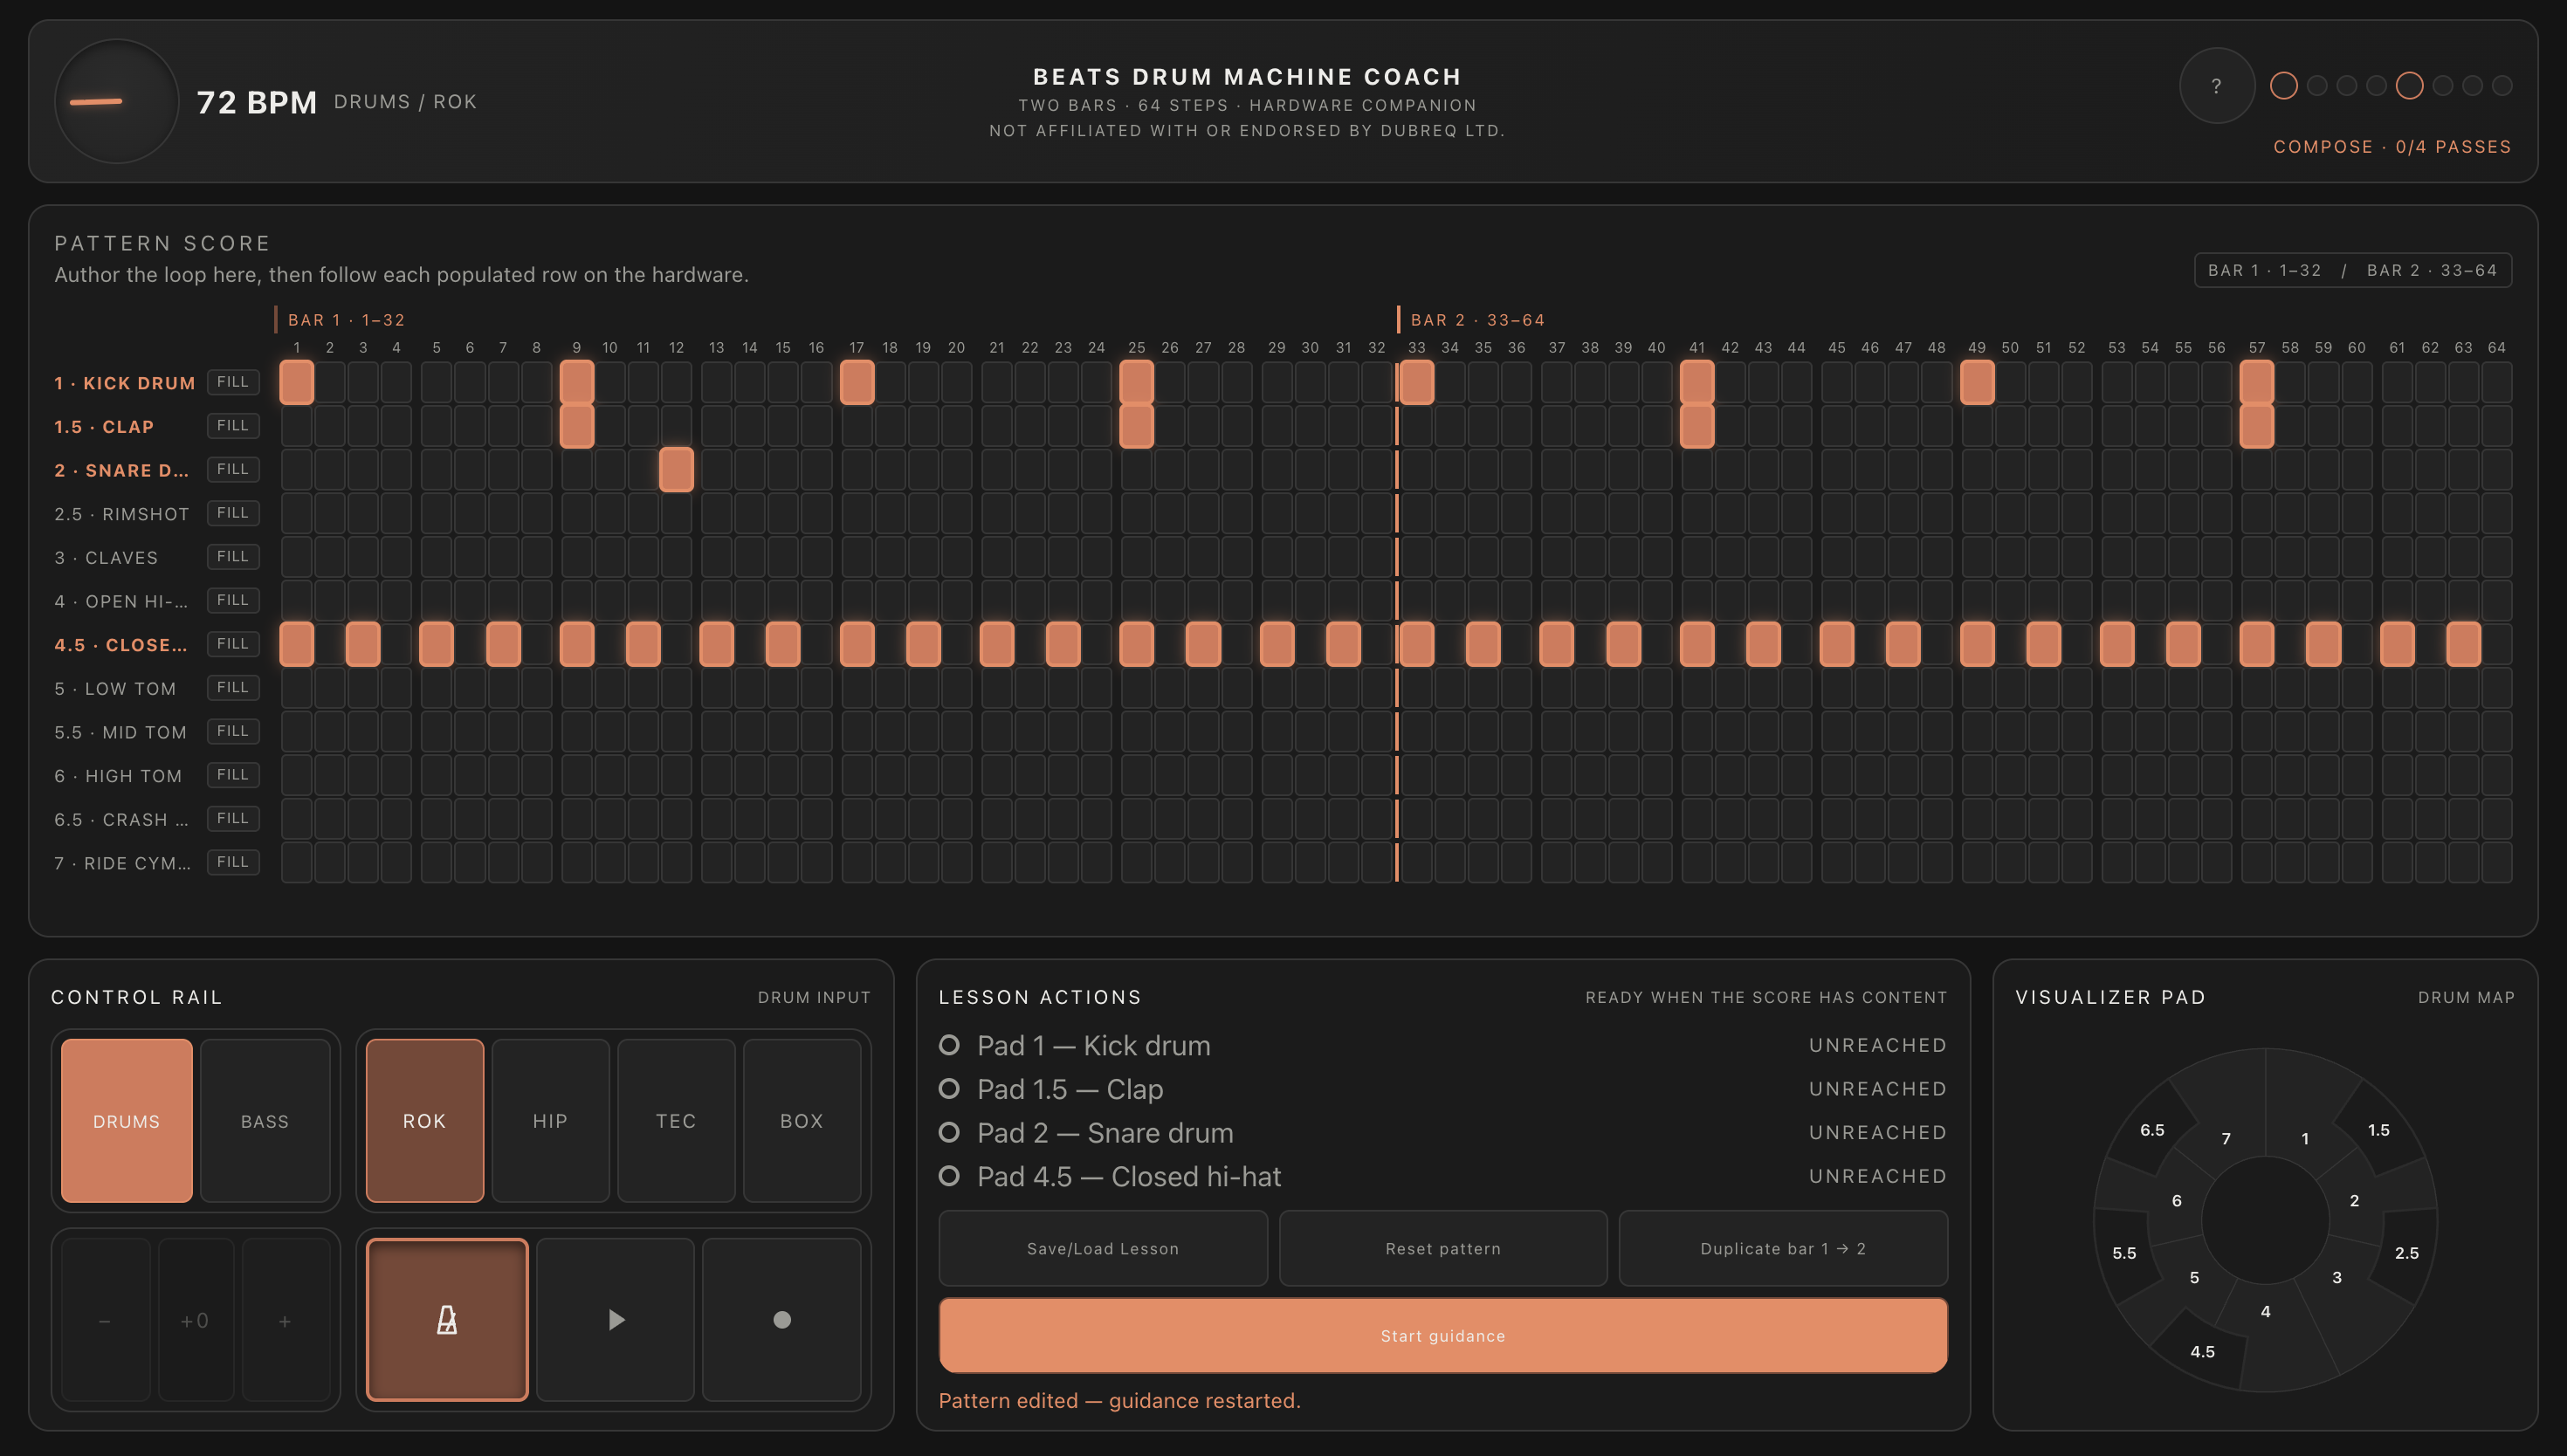
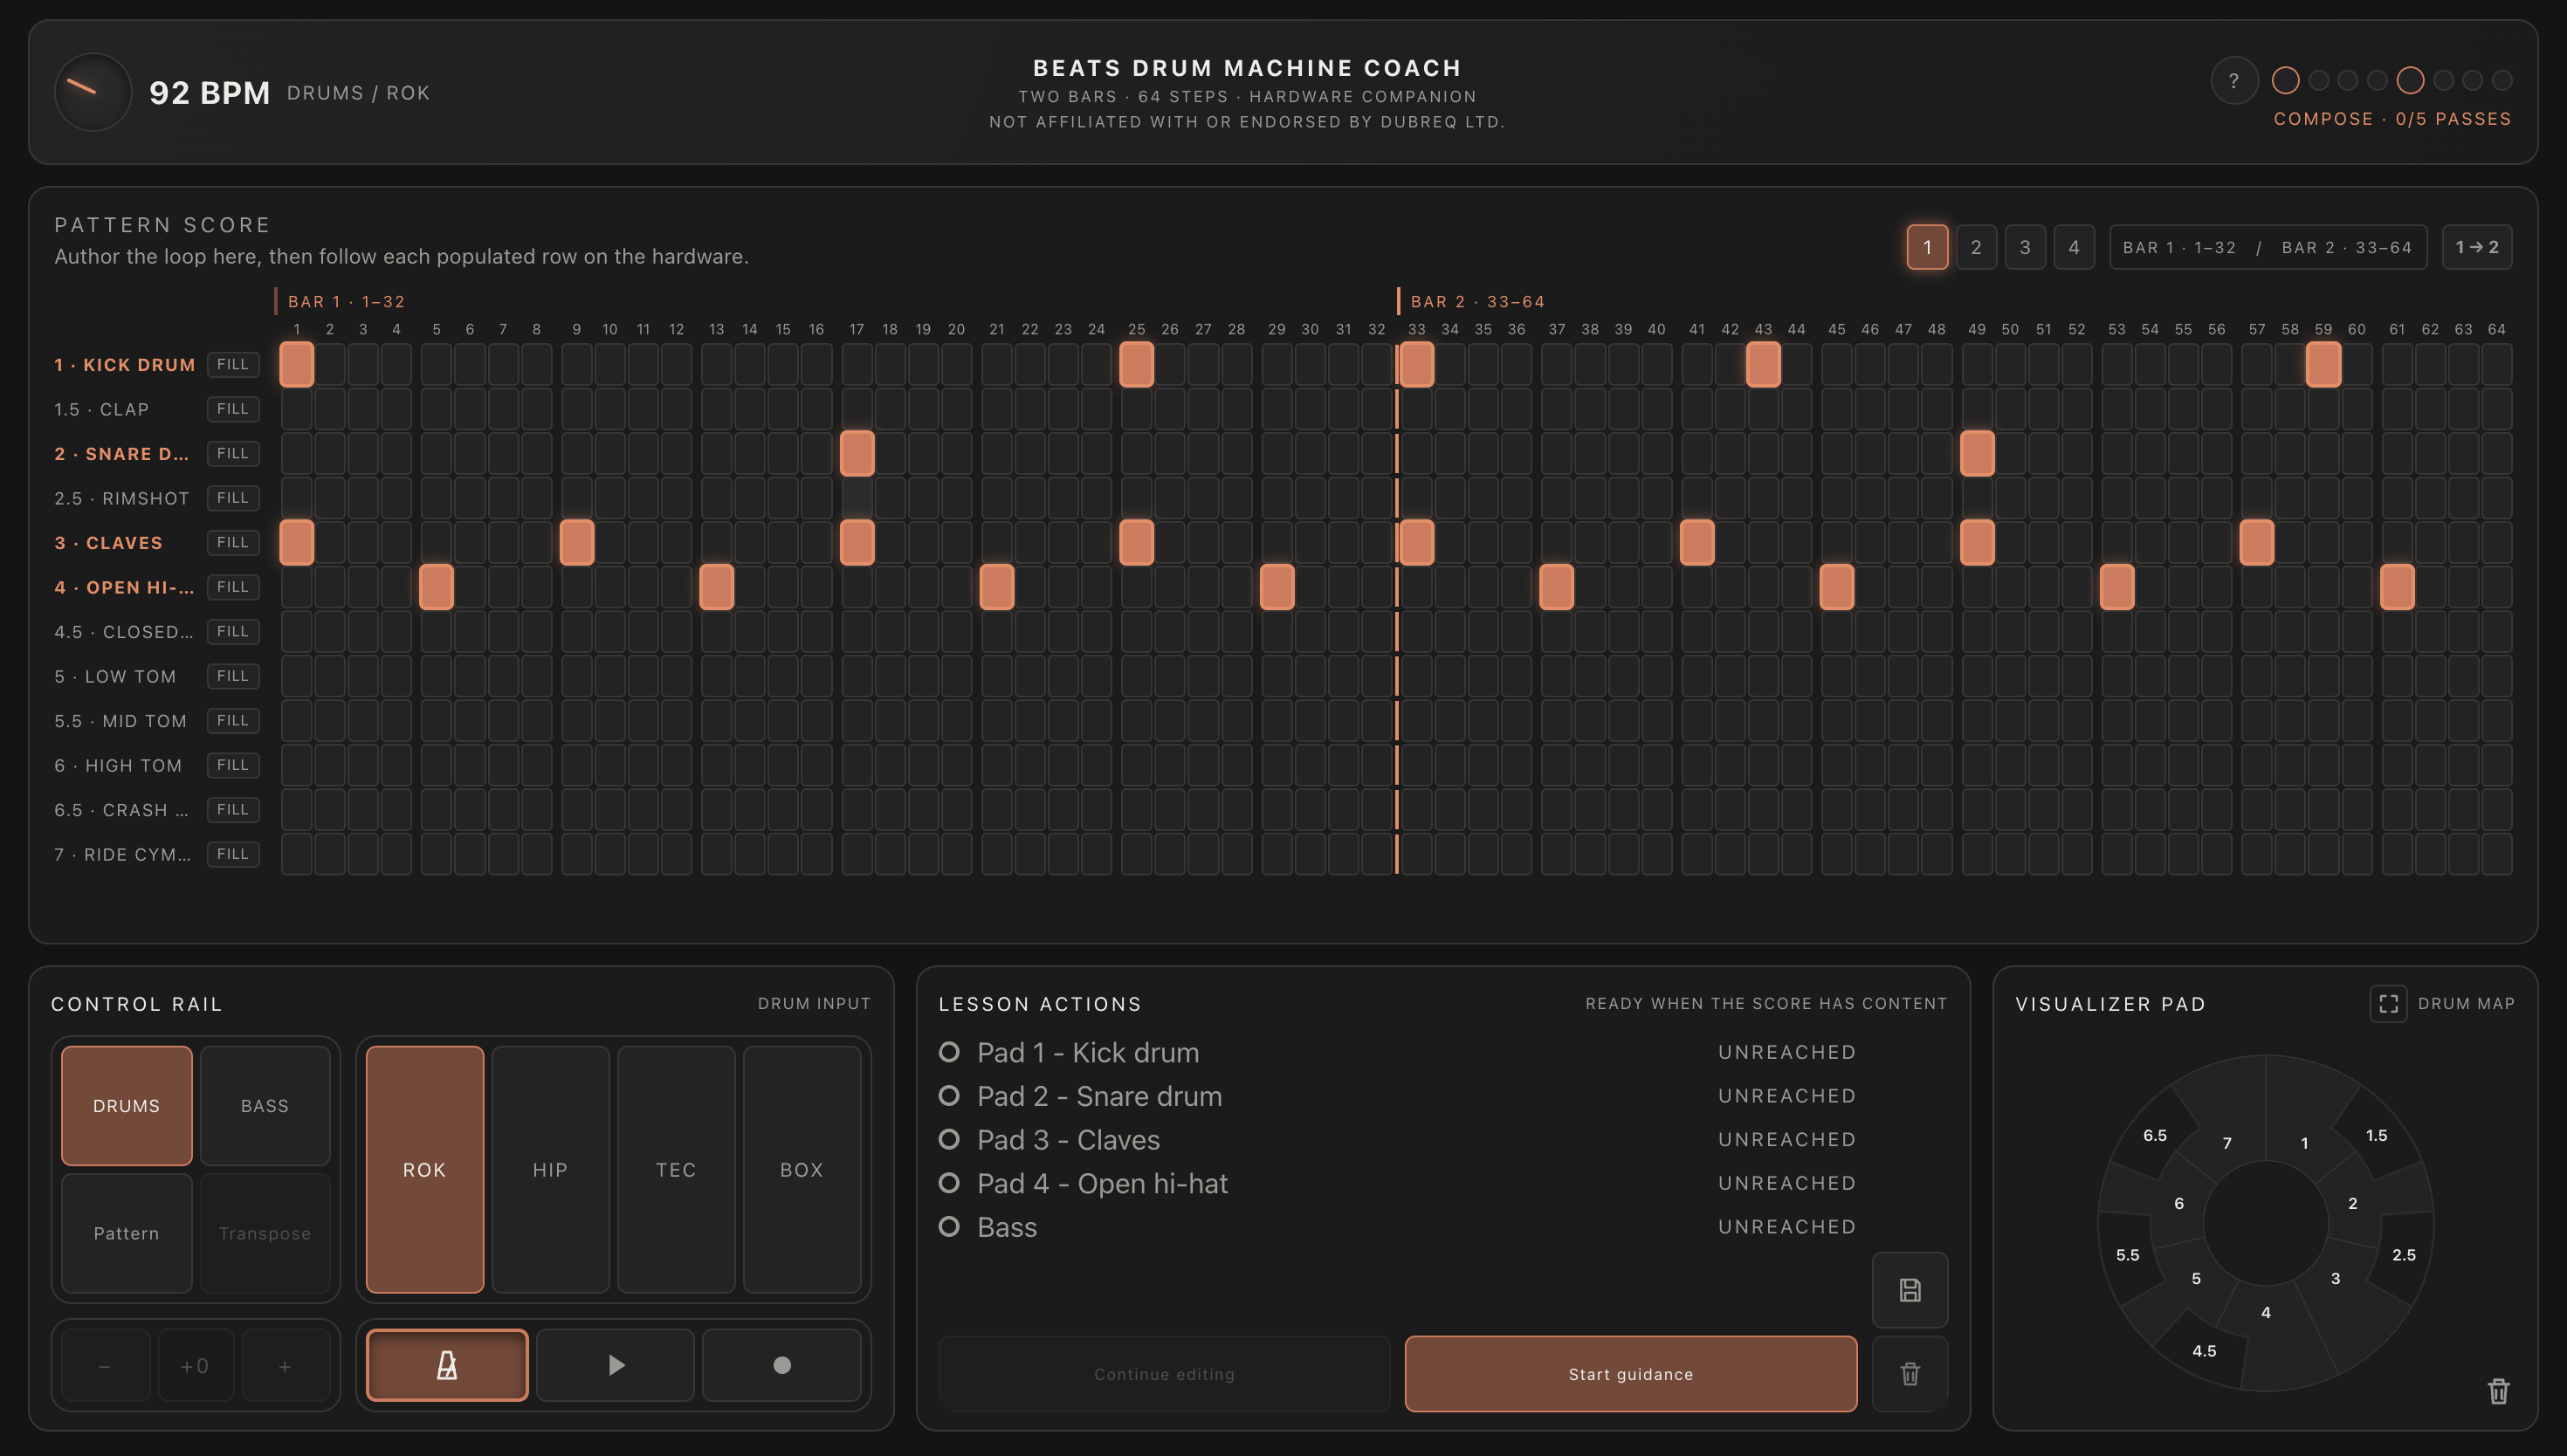
UI fixes, updated og

diff --git a/public/apps/stylophone-visualiser/index.html b/public/apps/stylophone-visualiser/index.html
@@ -27,8 +27,8 @@
       content="Compose, visualize, and practice 64-step drum machine loops in the browser."
     />
     <meta name="twitter:image" content="https://chitransh.dev/apps/stylophone-visualiser/og.png" />
-    <script type="module" crossorigin src="/apps/stylophone-visualiser/assets/index-BoXtmZzr.js"></script>
-    <link rel="stylesheet" crossorigin href="/apps/stylophone-visualiser/assets/index-2XkxaIQd.css">
+    <script type="module" crossorigin src="/apps/stylophone-visualiser/assets/index-DbpOH6Ol.js"></script>
+    <link rel="stylesheet" crossorigin href="/apps/stylophone-visualiser/assets/index-DG1juNit.css">
   </head>
   <body>
     <div id="root"></div>

diff --git a/public/apps/stylophone-visualiser/assets/index-DG1juNit.css b/public/apps/stylophone-visualiser/assets/index-DG1juNit.css
@@ -1,0 +1,1 @@
+.lesson-lib{margin-top:var(--space-7);padding:var(--space-5);background:var(--bg-2);border:1px solid var(--edge);border-radius:var(--radius)}.lesson-lib__heading{font-size:11px;letter-spacing:.12em;text-transform:uppercase;color:var(--text-dim);margin:0 0 var(--space-4)}.lesson-lib__save{display:flex;flex-wrap:wrap;align-items:flex-end;gap:var(--space-4);margin-bottom:var(--space-5)}.lesson-lib__field{display:flex;flex-direction:column;gap:var(--space-1);flex:1 1 160px}.lesson-lib__field-label{font-size:11px;letter-spacing:.08em;color:var(--text-dim)}.lesson-lib__input{font:inherit;min-height:44px;padding:var(--space-3) var(--space-5);color:var(--text);background:var(--surface);border:1px solid var(--edge);border-radius:calc(var(--radius) - 6px)}.lesson-lib__paste{margin-top:var(--space-5);flex-basis:100%}.lesson-lib__textarea{font:13px/1.4 var(--mono, ui-monospace, monospace);width:100%;padding:var(--space-3) var(--space-5);color:var(--text);background:var(--surface);border:1px solid var(--edge);border-radius:calc(var(--radius) - 6px);resize:vertical}.tbtn--import{width:100%}.lesson-lib__validity{flex-basis:100%;margin:0;font-size:12px;color:var(--text-dim)}.lesson-lib__validity--invalid{color:var(--text)}.lesson-lib__paste-box{position:relative}.lesson-lib__paste-box .lesson-lib__textarea{padding-right:36px}.lesson-lib__copy-icon{position:absolute;top:6px;right:6px;display:inline-flex;align-items:center;justify-content:center;padding:var(--space-1);color:var(--text-dim);background:transparent;border:none;border-radius:4px;cursor:pointer}.lesson-lib__copy-icon:hover,.lesson-lib__copy-icon:focus-visible{color:var(--accent)}.lesson-lib__copy-icon:active{color:var(--accent-bright)}.lesson-lib__hint{margin:var(--space-5) 0 0;color:var(--text-dim);font-size:14px}.lesson-lib__status{margin:var(--space-5) 0 0;min-height:1.2em;color:var(--text-dim);font-size:13px}.modal{margin:0;padding:0;border:none;width:100vw;height:100vh;max-width:100vw;max-height:100vh;background:transparent;transition:display var(--dur-base) allow-discrete,overlay var(--dur-base) allow-discrete}.modal[open]{display:flex;align-items:center;justify-content:center}.modal::backdrop{background:#0009;opacity:0;transition:opacity var(--dur-base) var(--ease-snap)}.modal__panel{--modal-enter: scale(.97);opacity:0;transform:var(--modal-enter);transition:opacity var(--dur-base) var(--ease-snap),transform var(--dur-base) var(--ease-snap);background:var(--bg-2);color:var(--text);border:1px solid var(--edge);border-radius:var(--radius);width:min(560px,92vw);max-height:86vh;overflow:auto;padding:var(--space-7)}.modal[open]::backdrop,.modal[open] .modal__panel{opacity:1}.modal[open] .modal__panel{transform:none}@starting-style{.modal[open]::backdrop{opacity:0}.modal[open] .modal__panel{opacity:0;transform:var(--modal-enter)}}@media(prefers-reduced-motion:reduce){.modal__panel{--modal-enter: none}}.modal__header{display:flex;align-items:center;justify-content:space-between;gap:var(--space-5);margin-bottom:var(--space-5)}.modal__title{font-size:14px;letter-spacing:.06em;text-transform:uppercase;color:var(--text);margin:0}.modal__body{color:var(--text-dim)}.tempo-knob{display:flex;flex-direction:column;align-items:center;gap:var(--space-6)}.tempo-knob__dial{width:72px;height:72px;border-radius:50%;background:radial-gradient(circle at 50% 35%,var(--surface-2),var(--surface));border:1px solid var(--edge);box-shadow:inset 0 2px 6px #[phone redacted];position:relative;cursor:grab;touch-action:none}.tempo-knob__dial:active{cursor:grabbing}.tempo-knob__indicator{position:absolute;top:0;right:0;bottom:0;left:0}.tempo-knob__pointer{position:absolute;top:11.111%;left:50%;width:4.167%;height:41.667%;margin-left:-2.084%;border-radius:2px;background:var(--accent-bright);box-shadow:0 0 6px var(--accent-glow)}.tempo-knob__grille{display:flex;flex-direction:column;align-items:center;padding:var(--space-3) 20px;border-radius:var(--radius);background:repeating-linear-gradient(90deg,var(--bg-2),var(--bg-2) 3px,var(--surface) 3px,var(--surface) 5px);border:1px solid var(--edge)}.tempo-knob__bpm{font-size:34px;font-weight:700;line-height:1;color:var(--text);font-variant-numeric:tabular-nums;min-width:3ch;text-align:center}.tempo-knob__unit{font-size:10px;letter-spacing:.24em;text-transform:uppercase;color:var(--text-dim);margin-top:var(--space-1)}.beat-indicator{display:flex;gap:var(--space-4);align-items:center;justify-content:center}.beat-dot{width:12px;height:12px;border-radius:50%;background:var(--surface);border:1px solid var(--edge)}.beat-dot--down{width:16px;height:16px;border-color:var(--accent)}.beat-dot.is-current{background:var(--accent-bright);border-color:var(--accent-bright);box-shadow:0 0 12px var(--accent-glow);animation:bd-pulse var(--dur-pulse) ease-in-out infinite}@keyframes bd-pulse{0%,to{box-shadow:0 0 8px var(--accent-glow)}50%{box-shadow:0 0 18px var(--accent-glow)}}@media(prefers-reduced-motion:reduce){.beat-dot.is-current{animation:none}}.step-grid{--sg-gap: 1px;--sg-beat: 3px;--sg-row: 24px;--sg-head: 14px;--sg-cycle: 16px;--sg-cols: repeat( 16, var(--sg-beat) minmax(0, 1fr) minmax(0, 1fr) minmax(0, 1fr) minmax(0, 1fr) );display:flex;align-items:flex-start;gap:var(--space-3);width:100%}.step-grid.is-locked{opacity:.4}.step-grid__rail{flex:0 0 118px;width:118px;display:flex;flex-direction:column;gap:var(--sg-gap)}.step-grid__rail-head{height:calc(var(--sg-cycle) + var(--sg-head) + var(--sg-gap))}.step-grid__label{position:relative;display:flex;align-items:center;justify-content:space-between;gap:var(--space-1);height:var(--sg-row);font-size:10px;letter-spacing:.06em;text-transform:uppercase;white-space:nowrap;color:var(--text-dim)}.step-grid__label-text{overflow:hidden;text-overflow:ellipsis}.step-grid__fills{position:static;flex:0 0 auto}.step-grid__fills-toggle{cursor:pointer;padding:2px 5px;font-size:8px;letter-spacing:.08em;text-transform:uppercase;color:var(--text-dim);background:var(--surface);border:1px solid var(--edge);border-radius:3px}@media(hover:hover){.step-grid__fills-toggle:hover{color:var(--text)}}.step-grid__fills.is-open .step-grid__fills-toggle{color:var(--accent-bright);border-color:var(--accent)}.step-grid__fills-menu{position:absolute;z-index:5;top:calc(100% + 2px);left:0;right:auto;display:flex;gap:3px;padding:var(--space-1);background:var(--surface-2);border:1px solid var(--accent-dim);border-radius:4px;box-shadow:0 4px 14px #[phone redacted]}.step-grid__fills--upward .step-grid__fills-menu{top:auto;bottom:calc(100% + 2px)}.step-grid__fill-chip{min-width:24px;padding:4px 6px;font:inherit;font-size:9px;letter-spacing:.04em;text-transform:uppercase;color:var(--text);background:var(--surface);border:1px solid var(--edge);border-radius:3px;cursor:pointer}@media(hover:hover){.step-grid__fill-chip:hover{background:var(--accent);border-color:var(--accent-bright)}}@media(pointer:coarse){.step-grid__fills-toggle{padding:5px 8px;font-size:9px}.step-grid__fill-chip{min-width:32px;padding:8px 10px;font-size:11px}.step-grid{--sg-row: 36px}}.step-grid__label.is-guide-active{color:var(--accent-bright);font-weight:700}.step-grid__label.is-guide-passed{color:var(--accent-dim)}.step-grid__label.is-guide-unreached{color:var(--text-dim)}.step-grid__plane{flex:1 1 auto;min-width:0;overflow:visible;display:flex;flex-direction:column;gap:var(--sg-gap)}.step-grid__head,.step-grid__row{display:grid;grid-template-columns:var(--sg-cols);gap:var(--sg-gap);width:100%}.step-grid__cycle-labels{display:grid;grid-template-columns:minmax(0,1fr) minmax(0,1fr);gap:var(--space-1);width:100%;height:var(--sg-cycle)}.step-grid__cycle-labels span{display:flex;align-items:center;padding:0 var(--space-2);border-left:2px solid var(--accent-dim);color:var(--accent-bright);font-size:9px;letter-spacing:.12em;text-transform:uppercase}.step-grid__cycle-labels span+span{border-left-color:var(--accent-bright)}.step-grid__head{height:var(--sg-head)}.step-head{position:relative;display:flex;align-items:center;justify-content:center;min-width:0;overflow:hidden;font-size:clamp(6px,.55vw,8px);line-height:1;color:var(--text-dim)}.step-cell{position:relative;height:var(--sg-row);min-width:0;padding:0;font:inherit;font-size:9px;line-height:1;color:var(--text);background:var(--surface);border:1px solid var(--edge);border-radius:3px;cursor:pointer;touch-action:none}@media(hover:hover){.step-cell:hover{background:var(--surface-2)}}.step-cell.is-bar-start:before,.step-head.is-bar-start:before{content:"";position:absolute;top:0;bottom:0;left:calc(-1 * var(--sg-beat) / 2 - 3px);width:2px;background:var(--accent-bright)}.step-cell.is-filled{background:var(--accent);border-color:var(--accent-bright)}.step-grid__row.is-guide-passed,.step-cell.is-guide-passed{opacity:.55}.step-grid__row.is-guide-unreached,.step-cell.is-guide-unreached{opacity:.42;filter:grayscale(.8)}.step-cell.is-guide-active{outline:2px solid var(--accent-bright);outline-offset:-1px;box-shadow:0 0 9px var(--accent-glow)}.step-cell.is-bass-start{font-weight:700;box-shadow:inset 3px 0 0 var(--text)}.step-cell.is-bass-sustain{background:var(--accent-dim);border-color:var(--accent);border-style:dashed}.step-cell.is-selected{box-shadow:inset 0 0 0 2px var(--text);border-radius:3px 8px}.step-cell.is-playhead{outline:2px solid var(--accent-bright);outline-offset:-1px;box-shadow:0 0 8px var(--accent-glow);animation:ph-pulse var(--dur-pulse) ease-in-out infinite}.step-head.is-playhead{color:var(--accent-bright)}@keyframes ph-pulse{0%,to{box-shadow:0 0 6px var(--accent-glow)}50%{box-shadow:0 0 16px var(--accent-glow)}}@media(prefers-reduced-motion:reduce){.step-cell.is-playhead{animation:none}}.pattern-slots{display:flex;align-items:center;gap:0;min-width:0}.pattern-slots__label,.pattern-slots__status{color:var(--text-dim);font-size:9px;letter-spacing:.1em;text-transform:uppercase;white-space:nowrap}.pattern-slots__status{position:absolute;width:1px;height:1px;margin:-1px;padding:0;overflow:hidden;clip:rect(0 0 0 0);clip-path:inset(50%);white-space:nowrap}.pattern-slots__buttons{display:flex;gap:var(--space-1)}.pattern-slot{width:24px;height:24px;padding:0;border:1px solid var(--edge);border-radius:4px;color:var(--text-dim);background:var(--surface);font:inherit;font-size:11px;cursor:pointer}.pattern-slot:focus-visible{outline:1px solid var(--accent-bright);outline-offset:2px}.pattern-slot.is-active{color:var(--text);background:var(--accent-dim);border-color:var(--accent);box-shadow:0 0 8px var(--accent-glow)}.pattern-slot.is-queued{color:var(--accent-bright);border-style:dashed;border-color:var(--accent-bright)}.pattern-slot:disabled{cursor:not-allowed;opacity:.5}@media(hover:hover){.pattern-slot:enabled:hover{color:var(--text);border-color:var(--accent)}}@media(max-width:820px){.score__heading{align-items:flex-start;flex-wrap:wrap}.score__heading-controls{order:3;flex:1 1 100%}}@media(prefers-reduced-motion:reduce){.pattern-slot{transition:none}}.tbtn{font:inherit;font-size:12px;letter-spacing:.12em;color:var(--text-dim);background:var(--surface);border:1px solid var(--edge);border-radius:calc(var(--radius) - 6px);padding:var(--space-3) var(--space-6);cursor:pointer;min-height:44px;min-width:44px;display:inline-flex;align-items:center;justify-content:center;position:relative}@media(hover:hover){.tbtn:hover:not(:disabled){color:var(--text);background:var(--surface-2)}}.tbtn[aria-pressed=true],.tbtn.is-active{color:var(--text);background:var(--accent-dim);border-color:var(--accent)}.tbtn--rec[aria-pressed=true]{background:var(--accent);border-color:var(--accent-bright);box-shadow:0 0 12px var(--accent-glow)}.tbtn--mode.is-active,.tbtn--bank.is-active{color:var(--text);background:var(--accent-dim);border-color:var(--accent)}.tbtn:disabled{opacity:.4;cursor:not-allowed}.tbtn--bank:disabled{border-style:dashed}.tbtn--icon{width:44px;height:44px;padding:0;flex:none}.tbtn__icon{display:block;pointer-events:none}.tbtn--icon[aria-pressed=true]{border-width:2px;box-shadow:inset 0 3px 7px #0000008c}.transport-array,.mode-switch,.pad-mode-switch,.profile-grid,.octave-stack,.utility-dock{padding:5px;border:1px solid var(--edge);border-radius:var(--radius);background:var(--bg-2);width:max-content}.utility-dock,.profile-grid{display:flex;gap:var(--space-1)}.tbtn--bank{padding:0;font-size:11px;letter-spacing:.08em}.octave-stack{display:flex;align-items:center;gap:var(--space-1)}.octave-stack.is-disabled .tbtn--readout{color:var(--text-dim);opacity:.4}.tbtn--readout{min-width:44px;min-height:28px;height:100%;padding:0;display:inline-flex;align-items:center;justify-content:center;text-align:center;color:var(--text);background:var(--bg-2);cursor:default;font-variant-numeric:tabular-nums}.transport-array,.mode-switch,.pad-mode-switch{display:flex;gap:var(--space-1)}.tbtn--mode{flex:1;padding:0;font-size:10px;letter-spacing:.04em}.chassis{display:grid;grid-template-areas:"tempo     .      display" "pad       pad    pad" "octave    octave octave" "transport mode   profile";grid-template-columns:140px minmax(0,1fr) auto;grid-template-rows:auto minmax(0,1fr) auto auto;gap:var(--space-5) var(--space-3);width:100%;height:100%}.chassis__display{grid-area:display;display:flex;flex-direction:column;align-items:flex-end;justify-content:flex-start;gap:var(--space-3);overflow:hidden}.chassis__nameplate{margin:0;font-size:9px;letter-spacing:.14em;text-transform:uppercase;color:var(--text-dim);white-space:nowrap}.chassis__pass{margin:0;color:var(--accent-bright);font-size:10px;letter-spacing:.08em;text-transform:uppercase;white-space:nowrap}.chassis .beat-indicator{justify-content:flex-end;gap:5px}.chassis__tempo{grid-area:tempo;display:flex;justify-content:flex-start;align-items:flex-start}.chassis__tempo .tempo-knob{flex-direction:column-reverse;align-items:flex-start;gap:var(--space-2)}.chassis__tempo .tempo-knob__dial{width:72px;height:72px}.chassis__tempo .tempo-knob__pointer{top:6px;height:22px}.chassis__tempo .tempo-knob__grille{padding:3px 12px}.chassis__tempo .tempo-knob__bpm{font-size:22px}.chassis__tempo .tempo-knob__unit{font-size:8px;margin-top:1px}.chassis__pad{grid-area:pad;place-self:center;height:100%;aspect-ratio:1;max-width:100%;min-width:300px}.chassis__pad .beatpad{width:100%;height:100%;min-width:0;max-width:none}.chassis__profile{grid-area:profile;justify-self:end}.chassis__octave{grid-area:octave;justify-self:center;margin-top:-16px;margin-bottom:24px}.chassis__transport{grid-area:transport;align-self:end}.chassis__mode{grid-area:mode;align-self:end;justify-self:center}.chassis__pad-mode{grid-area:padmode;align-self:end;justify-self:center}.pane--instrument .chassis{grid-template-areas:"display" "tempo" "pad" "profile" "octave" "transport" "mode";grid-template-columns:minmax(0,1fr);grid-template-rows:auto auto minmax(220px,1fr) auto auto auto auto;gap:var(--space-4);padding:0}.pane--instrument .chassis__display{align-items:center;gap:var(--space-2)}.pane--instrument .chassis .beat-indicator{justify-content:center;gap:5px}.pane--instrument .chassis__tempo{justify-content:center;align-items:center}.pane--instrument .chassis__pad{width:100%;height:auto;min-width:0;max-height:272px}.pane--instrument .chassis__pad .beatpad{width:min(100%,260px);height:auto;min-width:0;max-width:260px}.pane--instrument .chassis__profile,.pane--instrument .chassis__octave,.pane--instrument .chassis__transport,.pane--instrument .chassis__mode,.pane--instrument .chassis__pad-mode{align-self:stretch;justify-self:stretch;margin:0}.pane--instrument .profile-grid,.pane--instrument .octave-stack,.pane--instrument .transport-array,.pane--instrument .mode-switch,.pane--instrument .pad-mode-switch{width:100%;justify-content:center}.pane--instrument .profile-grid{display:grid;grid-template-columns:repeat(4,minmax(0,1fr))}.pane--instrument .tbtn--bank,.pane--instrument .tbtn--icon,.pane--instrument .tbtn--mode{min-width:0;flex:1 1 0}.sr-only{position:absolute;width:1px;height:1px;margin:-1px;padding:0;border:0;overflow:hidden;clip:rect(0 0 0 0);clip-path:inset(50%);white-space:nowrap}.layer-stack{min-height:0;flex:1 1 auto;border:1px solid var(--edge);border-radius:var(--radius);background:var(--surface);padding:var(--space-5) var(--space-6);margin-top:var(--space-5);display:grid;grid-template-columns:minmax(0,1fr) minmax(0,1fr) 44px;grid-template-rows:minmax(0,1fr) auto;grid-template-areas:"steps steps utility" "actions primary utility";gap:var(--space-3)}.layer-stack__step-display{min-width:0;min-height:0;grid-area:steps;display:flex;flex-direction:column;gap:var(--space-3);overflow:hidden}.layer-stack__heading{font-size:12px;letter-spacing:.18em;text-transform:uppercase;color:var(--text-dim);margin:0;max-height:120px}.layer-stack__rows{min-height:0;overflow:auto;display:flex;flex-direction:column;gap:var(--space-2)}.layer-stack__empty{color:var(--text-dim);font-size:13px;line-height:1.4;margin:0}.layer{display:flex;align-items:center;gap:var(--space-4);font-size:14px;width:100%;border:0;padding:0;background:transparent;color:inherit;text-align:left;font:inherit}button.layer:enabled{cursor:pointer}button.layer:enabled:focus-visible{outline:1px solid currentColor;outline-offset:3px}@media(hover:hover){button.layer:enabled:hover{outline:1px solid currentColor;outline-offset:3px}}.layer__dot{flex:0 0 auto;width:12px;height:12px;border-radius:50%;border:2px solid currentColor}.layer__name{flex:1 1 auto}.layer__state{flex:0 0 auto;font-size:11px;letter-spacing:.12em;text-transform:uppercase}.layer--passed{color:var(--accent-dim)}.layer--passed .layer__dot{background:transparent}.layer--active{color:var(--accent-bright);text-shadow:0 0 8px var(--accent-glow)}.layer--active .layer__dot{background:currentColor}.layer--unreached{color:var(--text-dim)}.layer--unreached .layer__dot{background:transparent}.layer-stack__utility{grid-area:utility;display:flex;justify-content:flex-end;flex-direction:column;gap:var(--space-1)}.layer-stack__utility-button{flex:0 0 44px}.layer-stack__utility-button--reset{color:var(--text-dim);opacity:.7}.layer-stack__utility-icon{display:block;width:18px;height:18px;fill:none;stroke:currentColor;stroke-linecap:round;stroke-linejoin:round;stroke-width:1.7;pointer-events:none}.layer-stack__actions{grid-area:actions;display:flex;min-width:0;gap:var(--space-3)}.layer-stack__actions .tbtn{min-width:0;flex:1 1 auto}.layer-stack__primary{grid-area:primary;min-width:0}.layer-stack__primary-button{width:100%}@media(max-width:1100px){.layer-stack{grid-template-columns:minmax(0,1fr) minmax(0,1fr) 44px;grid-template-areas:"steps steps utility" "actions primary utility"}.layer-stack__utility{flex-direction:column}}.guidance-notice{margin:var(--space-3) 0 0;color:var(--accent-bright);font-size:12px}.beatpad{display:block;-webkit-user-select:none;user-select:none;touch-action:manipulation;min-width:300px;max-width:360px;height:auto}.beatpad--bass{touch-action:none}.beatpad--control{touch-action:manipulation}.beatpad--control .beatpad__wedge{cursor:crosshair}.beatpad--control .beatpad__wedge.is-control .beatpad__slice{stroke:var(--accent);stroke-width:2}.beatpad--control .beatpad__wedge.is-inert{opacity:.28;cursor:not-allowed}.beatpad--control .beatpad__wedge.is-inert .beatpad__slice{stroke:var(--edge)}.beatpad__wedge{cursor:pointer;outline:none}.beatpad__slice{fill:var(--surface);stroke:var(--edge);stroke-width:1;transition:fill var(--dur-fast) ease,filter var(--dur-fast) ease}.beatpad__slice--half{fill:var(--bg-2);stroke:var(--surface-2);stroke-width:2}.beatpad__wedge:focus-visible .beatpad__slice{fill:var(--accent-dim);filter:drop-shadow(0 0 6px var(--accent-dim))}@media(hover:hover){.beatpad__wedge:hover .beatpad__slice{fill:var(--accent-dim);filter:drop-shadow(0 0 6px var(--accent-dim))}}.beatpad:not(.beatpad--bass) .beatpad__wedge:active .beatpad__slice,.beatpad__wedge.is-live .beatpad__slice{fill:var(--accent-bright);filter:drop-shadow(0 0 10px var(--accent-glow))}.beatpad__wedge.is-live .beatpad__label{fill:var(--bg)}.beatpad__label{fill:var(--text);font-size:14px;font-weight:600;pointer-events:none}.beatpad__wedge:focus-visible .beatpad__label,.beatpad:not(.beatpad--bass) .beatpad__wedge:active .beatpad__label{fill:var(--bg)}@media(hover:hover){.beatpad__wedge:hover .beatpad__label{fill:var(--bg)}}.beatpad__wedge.is-sequenced .beatpad__slice{fill:var(--accent);stroke:var(--accent-bright);stroke-width:3;filter:drop-shadow(0 0 8px var(--accent-glow))}.beatpad__wedge.is-sequenced .beatpad__label{fill:var(--bg)}.beatpad__wedge.is-cued .beatpad__slice{fill:var(--accent-bright);filter:drop-shadow(0 0 10px var(--accent-glow));stroke:var(--accent-bright);stroke-width:3}.beatpad__wedge.is-cued .beatpad__label{fill:var(--bg)}.beatpad__wedge.is-cued--pulse .beatpad__slice{animation:pad-cue-pulse var(--dur-pulse) ease-in-out infinite}@keyframes pad-cue-pulse{0%,to{filter:drop-shadow(0 0 6px var(--accent-glow))}50%{filter:drop-shadow(0 0 16px var(--accent-glow))}}@media(prefers-reduced-motion:reduce){.beatpad__slice{transition:none}.beatpad__wedge.is-cued--pulse .beatpad__slice{animation:none}}.beatpad__wedge.is-hit .beatpad__slice,.beatpad__wedge.is-cued.is-hit .beatpad__slice{fill:var(--hit);stroke:var(--hit);stroke-width:3;filter:drop-shadow(0 0 12px var(--hit-glow));animation:pad-hit-flash var(--dur-flash) ease-out}.beatpad__wedge.is-hit .beatpad__label{fill:var(--bg)}@keyframes pad-hit-flash{0%{filter:drop-shadow(0 0 20px var(--hit-glow));transform:scale(1.06)}to{filter:drop-shadow(0 0 12px var(--hit-glow));transform:scale(1)}}@media(prefers-reduced-motion:reduce){.beatpad__wedge.is-hit .beatpad__slice{animation:none}}.beatpad__wedge.is-miss .beatpad__slice,.beatpad__wedge.is-cued.is-miss .beatpad__slice{fill:var(--miss);stroke:var(--miss);stroke-width:3;stroke-dasharray:5 3;filter:drop-shadow(0 0 12px var(--miss-glow));animation:pad-miss-flash var(--dur-flash) ease-out}.beatpad__wedge.is-miss .beatpad__label{fill:var(--bg)}@keyframes pad-miss-flash{0%{filter:drop-shadow(0 0 20px var(--miss-glow));transform:scale(.96)}to{filter:drop-shadow(0 0 12px var(--miss-glow));transform:scale(1)}}@media(prefers-reduced-motion:reduce){.beatpad__wedge.is-miss .beatpad__slice{animation:none}}.walkthrough{position:fixed;top:0;right:0;bottom:0;left:0;z-index:1000;pointer-events:none}.walkthrough__highlight{position:fixed;border-radius:10px;box-shadow:0 0 0 9999px #000000c7;transition:top var(--dur-base) ease,left var(--dur-base) ease,width var(--dur-base) ease,height var(--dur-base) ease;pointer-events:none}.walkthrough__highlight--instant{transition:none}.walkthrough__caption{position:fixed;right:24px;bottom:24px;max-width:320px;background:var(--surface);border:1px solid var(--edge);border-radius:var(--radius);padding:var(--space-7);color:var(--text);pointer-events:auto}.walkthrough__caption--top{top:24px;bottom:auto}.walkthrough__step-count{margin:0 0 var(--space-3);font-size:11px;letter-spacing:.12em;text-transform:uppercase;color:var(--text-dim)}.walkthrough__copy{margin:0 0 var(--space-5);font-size:13px;line-height:1.4}.walkthrough__actions{display:flex;justify-content:flex-end;gap:var(--space-3)}@media(prefers-reduced-motion:reduce){.walkthrough__highlight{transition:none}}:root{--bg: #141414;--bg-2: #1b1b1b;--surface: #232323;--surface-2: #2b2b2b;--edge: #363636;--text: #edece8;--text-dim: #9a9a94;--accent: #d97757;--accent-bright: #f0895f;--accent-glow: rgba(240, 137, 95, .55);--accent-dim: #7a4636;--hit: #3fb950;--hit-glow: rgba(63, 185, 80, .55);--miss: #f85149;--miss-glow: rgba(248, 81, 73, .55);--radius: 12px;--focus: #f0895f;--space-1: 4px;--space-2: 6px;--space-3: 8px;--space-4: 10px;--space-5: 12px;--space-6: 14px;--space-7: 16px;--dur-fast: .12s;--dur-base: .25s;--dur-flash: .35s;--dur-layout: .42s;--dur-spring: .56s;--dur-pulse: 1s;--ease-snap: cubic-bezier(.22, .85, .3, 1);--ease-spring: cubic-bezier(.34, 1.56, .64, 1)}*{box-sizing:border-box}html,body,#root{height:100%;margin:0}body{background:var(--bg);color:var(--text);font-family:ui-sans-serif,system-ui,-apple-system,Segoe UI,Roboto,sans-serif;-webkit-font-smoothing:antialiased}:focus-visible{outline:2px solid var(--focus);outline-offset:2px}.app{height:100%;display:grid;grid-template-columns:minmax(0,1fr) 282px;grid-template-areas:"structure instrument";gap:var(--space-6);padding:var(--space-6) var(--space-7) var(--space-7);background:var(--bg)}.pane{background:var(--bg);min-width:0;min-height:0;overflow:auto;border:1px solid var(--edge);border-radius:var(--radius);padding:var(--space-6)}.pane--instrument{display:flex;flex-direction:column;grid-area:instrument}.pane--structure{display:flex;flex-direction:column;grid-area:structure;color:var(--text-dim)}.pane__label{font-size:12px;letter-spacing:.18em;text-transform:uppercase;color:var(--text-dim);margin:0 0 var(--space-3)}.structure-placeholder{border:1px dashed var(--edge);border-radius:var(--radius);padding:32px;text-align:center;color:var(--text-dim);font-size:14px}@media(max-width:1120px){.app{grid-template-columns:minmax(0,1fr) 250px}}@media(max-width:820px){.app{height:auto;min-height:100%;grid-template-columns:1fr;grid-template-areas:"structure" "instrument";padding:var(--space-4)}.pane--instrument{min-height:620px}}[data-tip]:after{content:attr(data-tip);position:absolute;bottom:calc(100% + 6px);left:50%;transform:translate(-50%);padding:var(--space-1) var(--space-3);border:1px solid var(--edge);border-radius:6px;background:var(--bg-2);color:var(--text);font-size:11px;font-weight:400;letter-spacing:.04em;white-space:nowrap;opacity:0;pointer-events:none;transition:opacity var(--dur-fast) ease;z-index:20}@supports (position-area: block-start) and (anchor-scope: --tip){[data-tip]{anchor-name:--tip;anchor-scope:--tip}[data-tip]:after{position-anchor:--tip;position:fixed;position-area:block-start;inset:auto;transform:none;margin:0 0 6px;position-try-fallbacks:flip-block,block-start span-inline-start,block-end span-inline-start,block-start span-inline-end,block-end span-inline-end}}[data-tip]:focus-visible:after{opacity:1}@media(hover:hover){[data-tip]:hover:after{opacity:1}}@media(prefers-reduced-motion:reduce){[data-tip]:after{transition:none}}.workspace{height:100%;min-height:0;min-width:0;display:grid;grid-template-columns:minmax(0,1fr);grid-template-rows:10dvh minmax(0,1fr) 32dvh;grid-template-areas:none;gap:var(--space-5);padding:var(--space-5) var(--space-7) var(--space-6);transition:grid-template-rows var(--dur-layout) var(--ease-snap);overflow-y:auto;overflow-x:hidden;background:var(--bg)}.workspace__header{min-width:0;min-height:0;height:100%;container-type:size;display:grid;grid-template-columns:minmax(220px,1.15fr) minmax(240px,1fr) minmax(300px,1.25fr);align-items:center;gap:var(--space-6);padding:var(--space-2) var(--space-6);border:1px solid var(--edge);border-radius:var(--radius);background:linear-gradient(110deg,var(--surface),var(--bg-2))}.header__info{min-width:0;display:flex;align-items:center;gap:9px;color:var(--text-dim);font-size:11px;text-transform:uppercase;letter-spacing:.08em;white-space:nowrap}.header__info .tempo-knob,.header__info .tempo-knob__dial{flex:0 0 auto;inline-size:min(65cqh,100%);block-size:auto;aspect-ratio:1}.header__info .tempo-knob__dial{inline-size:100%}.header__info strong{color:var(--text);font-size:18px;letter-spacing:.03em;font-variant-numeric:tabular-nums}.header__eyebrow{color:var(--accent-bright);font-size:9px;letter-spacing:.14em}.header__brand{min-width:0;color:var(--text);font-size:13px;font-weight:700;letter-spacing:.14em;text-align:center;text-transform:uppercase;white-space:nowrap}.header__brand small{display:block;margin-top:var(--space-1);color:var(--text-dim);font-size:9px;font-weight:400;letter-spacing:.12em}.header__progress{min-width:0;min-height:0;height:100%;display:flex;flex-direction:column;align-items:flex-end;justify-content:center;gap:clamp(1px,4cqh,3px);overflow:hidden}.header__progress-top{min-width:0;min-height:0;display:flex;align-items:center;justify-content:flex-end;gap:min(10cqh,8px)}.header__progress .beat-indicator{justify-content:flex-end;gap:min(7cqh,5px)}.header__progress .beat-dot{width:min(18cqh,12px);height:min(18cqh,12px)}.header__progress .beat-dot--down{width:min(24cqh,16px);height:min(24cqh,16px)}.header__replay{inline-size:clamp(20px,52cqh,28px);block-size:clamp(20px,52cqh,28px);min-width:0;min-height:0;padding:0;border-radius:50%}.header__pass{color:var(--accent-bright);font-size:10px;line-height:1.1;letter-spacing:.1em;text-transform:uppercase;white-space:nowrap;max-width:100%;overflow:hidden;text-overflow:ellipsis}.workspace__score{min-width:0;min-height:0;display:flex;flex-direction:column;overflow:hidden;position:relative;padding:var(--space-6) var(--space-6) var(--space-4);border:1px solid var(--edge);border-radius:var(--radius);background:var(--bg-2)}.score__heading{display:flex;align-items:flex-end;justify-content:space-between;gap:var(--space-5);margin-bottom:var(--space-4)}.score__heading-controls{display:flex;align-items:center;justify-content:flex-end;gap:var(--space-3);min-width:0}.score__instruction{margin:0;color:var(--text-dim);font-size:12px;line-height:1.35}.score__heading-controls .pattern-slot,.score__meta,.score__duplicate{height:26px;min-height:0}.score__meta{flex:0 0 auto;display:inline-flex;align-items:center;padding:0 7px;border:1px solid var(--edge);border-radius:4px;color:var(--text-dim);font-size:9px;letter-spacing:.1em;white-space:nowrap}.workspace__score .step-grid{flex:0 0 auto}.score__duplicate{flex:0 0 auto;width:auto;min-width:0;padding:0 7px;border:1px solid var(--edge);border-radius:4px}.score__duplicate-mark{font-size:10px;font-weight:700;letter-spacing:-.04em;line-height:1;pointer-events:none}.icon-control--borderless{border:0;background:transparent}.icon-control--borderless:hover:not(:disabled),.icon-control--borderless:focus-visible,.icon-control--borderless[aria-pressed=true]{background:transparent}.workspace__deck{min-width:0;min-height:0;height:100%;display:grid;grid-template-columns:minmax(360px,.92fr) minmax(360px,1.12fr) minmax(220px,.58fr);gap:var(--space-5);align-items:stretch;transition:grid-template-columns var(--dur-layout) var(--ease-snap)}.workspace__deck.is-visualizer-expanded{grid-template-columns:minmax(300px,.72fr) minmax(320px,.95fr) minmax(260px,1.33fr)}@media(min-width:821px){.workspace.is-visualizer-expanded{grid-template-rows:8dvh minmax(0,1fr) 44dvh}.workspace.is-visualizer-expanded .workspace__header{padding-block:var(--space-1)}}.deck__controls,.deck__lesson,.deck__pad{min-width:0;min-height:0;overflow:hidden;position:relative;padding:var(--space-4) var(--space-5);border:1px solid var(--edge);border-radius:var(--radius);background:var(--bg-2)}.deck__controls,.deck__lesson,.deck__pad{display:flex;flex-direction:column}.deck__heading{display:flex;align-items:center;justify-content:space-between;gap:var(--space-3);min-height:22px;margin-bottom:7px;color:var(--text);font-size:11px;letter-spacing:.14em;text-transform:uppercase}.deck__heading small{color:var(--text-dim);font-size:9px;font-weight:400;letter-spacing:.08em;white-space:nowrap}.pad-owner-badge{display:inline-block;margin-left:var(--space-3);padding:2px 5px;border:1px solid var(--accent);border-radius:4px;color:var(--accent-bright);font-size:9px;letter-spacing:.08em;vertical-align:1px}.pad-owner-badge--delete{border-color:var(--miss);color:var(--miss)}.deck__heading-actions{display:flex;align-items:center;gap:var(--space-2);min-width:0}.visualizer-expand{flex:0 0 auto;display:grid;width:22px;height:22px;place-items:center;padding:0;border:1px solid var(--edge);border-radius:4px;background:transparent;color:var(--text-dim);cursor:pointer}.visualizer-expand:hover:not(:disabled),.visualizer-expand[aria-pressed=true]{border-color:var(--accent-dim);color:var(--accent-bright)}.visualizer-expand[aria-pressed=true]{background:color-mix(in srgb,var(--accent-dim) 20%,transparent)}.visualizer-expand:focus-visible{outline:2px solid var(--accent-bright);outline-offset:2px}.visualizer-expand:disabled{cursor:not-allowed;opacity:.38}.visualizer-expand svg{width:13px;height:13px;fill:none;stroke:currentColor;stroke-linecap:round;stroke-linejoin:round;stroke-width:1.5;transition:transform var(--dur-base) var(--ease-spring)}.visualizer-expand[aria-pressed=true] svg{transform:rotate(90deg)}.controls-grid{min-height:0;flex:1 1 auto;display:grid;grid-template-areas:"mode profile" "mode profile" "octave transport";grid-template-columns:minmax(110px,.72fr) minmax(190px,1.28fr);grid-template-rows:minmax(0,1fr) minmax(0,1fr) 54px;gap:var(--space-3)}.controls-grid .chassis__mode-stack{grid-area:mode;min-width:0;min-height:0;height:100%;align-self:center;justify-self:stretch;display:flex;flex-direction:column;gap:var(--space-1);padding:5px;border:1px solid var(--edge);border-radius:var(--radius);background:var(--bg-2)}.controls-grid .chassis__profile{grid-area:profile}.controls-grid .chassis__octave{grid-area:octave}.controls-grid .chassis__transport{grid-area:transport}.controls-grid .chassis__mode,.controls-grid .chassis__pad-mode{grid-area:auto}.controls-grid .chassis__profile,.controls-grid .chassis__octave,.controls-grid .chassis__transport{min-width:0;min-height:0;margin:0;align-self:stretch;justify-self:stretch}.controls-grid .profile-grid,.controls-grid .octave-stack,.controls-grid .transport-array,.controls-grid .chassis__mode-stack{width:100%;justify-content:center}.controls-grid .octave-stack,.controls-grid .transport-array{height:100%}.controls-grid .chassis__mode-stack .mode-switch,.controls-grid .chassis__mode-stack .pad-mode-switch{width:100%;height:100%;padding:0;border:0;background:transparent}.controls-grid .profile-grid{display:grid;grid-template-columns:repeat(4,minmax(0,1fr));height:100%;align-self:center}.controls-grid .tbtn--bank,.controls-grid .tbtn--mode,.controls-grid .tbtn--icon{min-width:0;flex:1 1 0}.controls-grid .profile-grid .tbtn--bank{min-height:36px;height:100%}.controls-grid .octave-stack .tbtn--icon,.controls-grid .transport-array .tbtn--icon,.controls-grid .octave-stack .tbtn--readout{height:100%;min-height:0}.controls-grid .chassis__mode-stack .tbtn--mode{min-height:36px;height:100%}.controls-grid .octave-stack,.controls-grid .transport-array,.controls-grid .mode-switch,.controls-grid .pad-mode-switch{display:flex}.deck__lesson .layer-stack{min-height:0;flex:1 1 auto;overflow:hidden;margin:0;padding:0;border:0;background:transparent}.deck__lesson .layer-stack__heading{display:none}.deck__lesson .layer-stack__rows{min-height:0;overflow:auto;max-height:none}.deck__lesson .layer-stack__actions{gap:var(--space-2)}.deck__lesson .layer-stack__actions .tbtn,.deck__lesson .layer-stack__primary .tbtn{min-width:0;padding:7px var(--space-3);font-size:9px;letter-spacing:.06em}.deck__lesson .layer-stack__actions .tbtn,.deck__lesson .layer-stack__primary .tbtn{width:100%}.deck__lesson .layer-stack__primary .tbtn{color:var(--text);background:var(--accent-dim);border-color:var(--accent)}.deck__pad-body{min-height:0;flex:1 1 auto;display:grid;place-items:center;container-type:size}.visualizer-delete{position:absolute;right:12px;bottom:12px;z-index:2;display:grid;place-items:center;padding:0;border:0;border-radius:8px;background:transparent;color:var(--text-dim);cursor:pointer}.visualizer-delete:hover,.visualizer-delete:focus-visible,.visualizer-delete.is-armed{border-color:var(--miss);color:var(--miss)}.visualizer-delete.is-armed{box-shadow:inset 0 3px 7px #0000008c}.visualizer-delete:focus-visible{outline:2px solid var(--miss);outline-offset:2px}.visualizer-delete svg{width:20px;height:20px;fill:none;stroke:currentColor;stroke-linecap:round;stroke-linejoin:round;stroke-width:1.8}.visualizer-undo{position:absolute;left:12px;right:64px;bottom:12px;z-index:2;display:flex;align-items:center;justify-content:space-between;gap:var(--space-3);padding:7px var(--space-3);border:1px solid var(--accent-dim);border-radius:7px;background:color-mix(in srgb,var(--bg-2) 92%,var(--accent-dim));color:var(--text);font-size:10px;letter-spacing:.04em}.visualizer-undo button{min-height:30px;padding:var(--space-1) var(--space-4);border:1px solid var(--accent);border-radius:5px;background:transparent;color:var(--accent-bright);cursor:pointer;font:inherit}.visualizer-undo button:focus-visible{outline:2px solid var(--accent-bright);outline-offset:2px}.deck__pad .beatpad{width:min(95cqw,95cqh);min-width:0;max-width:none}.workspace__deck.is-visualizer-expanded .deck__pad .beatpad{animation:visualizer-pad-spring var(--dur-spring) var(--ease-spring)}@keyframes visualizer-pad-spring{0%{opacity:.72;transform:scale(.86)}68%{opacity:1;transform:scale(1.045)}84%{transform:scale(.985)}to{opacity:1;transform:scale(1)}}@media(min-width:821px){.workspace__score{container-type:size}.workspace__score .step-grid{--sg-row: 6cqh}}@media(pointer:coarse)and (min-width:821px){.workspace__score .step-grid{--sg-row: 6cqh}}.deck__pad-hint{margin:var(--space-2) 0 0;color:var(--text-dim);font-size:9px;line-height:1.25}.workspace .pane__label{margin:0 0 3px}@media(min-width:1500px){.workspace{gap:var(--space-7);padding:var(--space-7) 24px 18px}.workspace__deck{gap:var(--space-7)}}@media(max-width:1100px){.workspace__header{grid-template-columns:minmax(205px,1.2fr) minmax(210px,1fr) minmax(260px,1.1fr);gap:9px}.workspace__deck{grid-template-columns:minmax(320px,.9fr) minmax(320px,1fr) 210px}.workspace__deck.is-visualizer-expanded{grid-template-columns:minmax(300px,.72fr) minmax(300px,.88fr) minmax(240px,1.2fr)}}@media(max-width:820px){.workspace{height:auto;min-height:100%;overflow:visible;grid-template-rows:auto auto auto}.workspace__header{grid-template-columns:1fr auto}.header__brand{grid-column:1 / -1;grid-row:2}.header__progress{grid-column:1 / -1;grid-row:3;align-items:flex-start}.workspace__score{overflow:auto}.workspace__deck{grid-template-columns:1fr}.deck__pad{min-height:240px}}@media(prefers-reduced-motion:reduce){.workspace__header,.workspace__score,.workspace__deck,.workspace,.visualizer-expand svg{transition:none}.workspace__deck.is-visualizer-expanded .deck__pad .beatpad{animation:none}}